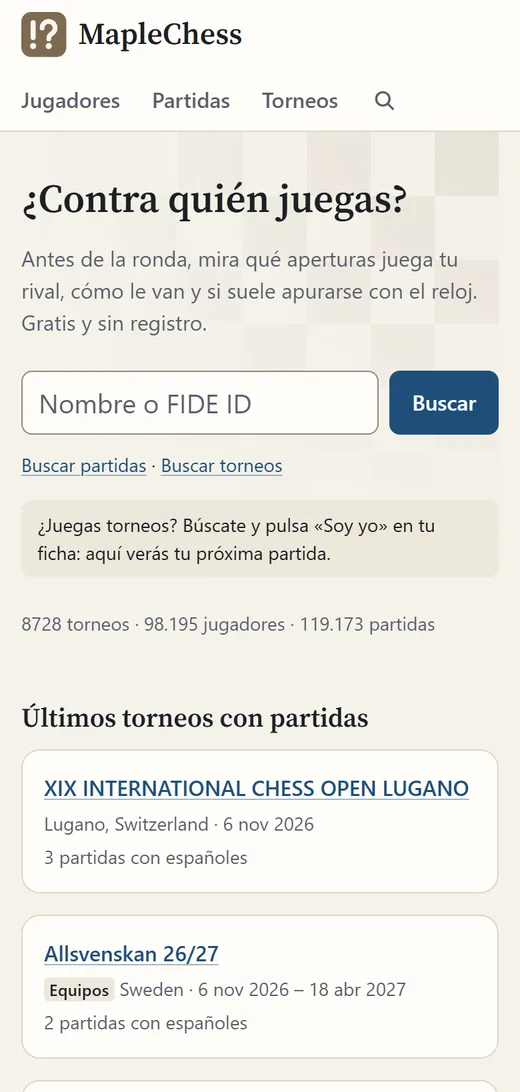
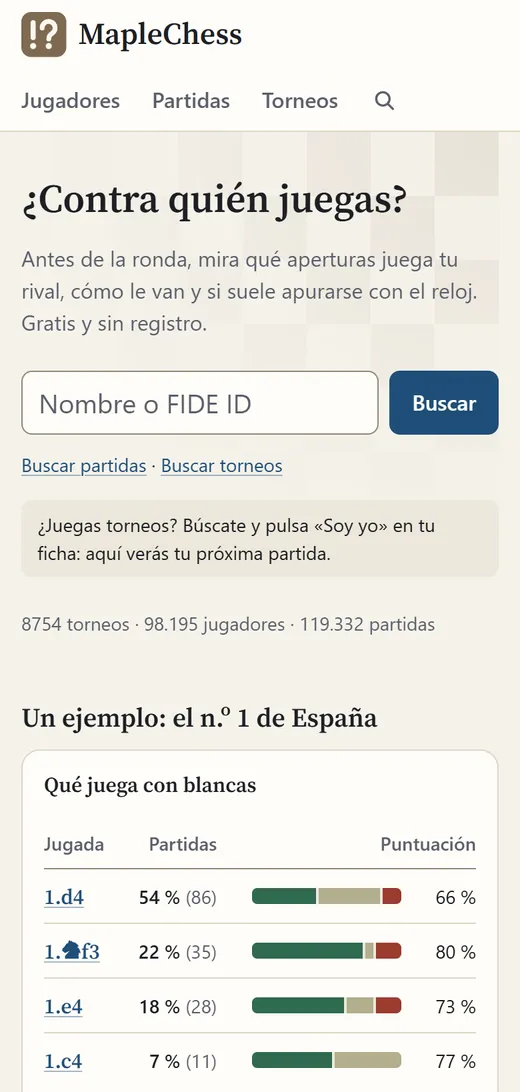
README: la captura de la portada, con el ejemplo del dossier
Desde #120, la parte de arriba de la portada enseña el ejemplo con el
dossier del n.º 1 del ranking, y la captura del móvil del README seguía
enseñando los últimos torneos con partidas.

Rehecha con la receta de las otras del móvil (390×844 a densidad 2,
recortada a 819 px CSS y en WebP de 520×1092, con quality 80 y method 6),
en claro y oscuro. El corte cae en una franja sin texto (de 816 a 863 px),
así que las demás no cambian. Cambian también su texto alternativo y la
nota de docs/decisiones.md: la fecha, quién sale en la portada y el
peso de las ocho, 436 KB.

diff --git a/docs/decisiones.md b/docs/decisiones.md
@@ -804,7 +804,7 @@ La historia, las medidas, los casos concretos y el detalle de cada página que s
 
 #### Capturas del README
 
-- **Capturas del README** (`docs/capturas/`, 25-oct-2026; rehechas el 7-nov-2026, con las piezas nuevas): de producción, en WebP y en claro y oscuro, que el README elige con `<picture>` y `prefers-color-scheme`. Sólo enseñan GM de élite (la partida 53051, Anton Guijarro contra Gukesh, y el dossier de Anton, 2285525) y nombres de torneos: nunca a otros jugadores ni a posibles menores. El visor, a 1280×800 con el motor encendido; las del móvil, a 390×844. Las ocho pesan unos 440 KB.
+- **Capturas del README** (`docs/capturas/`, 25-oct-2026; rehechas el 7-nov-2026, con las piezas nuevas, y la de la portada el 11-nov-2026, con el ejemplo del dossier): de producción, en WebP, en claro y en oscuro, que el README elige con `<picture>` y `prefers-color-scheme`. Sólo enseñan GM de élite (la partida 53051, Anton Guijarro contra Gukesh, y el dossier de Anton, 2285525, que el 11-nov era también el ejemplo de la portada, sin su nombre: se recalcula cada noche y puede ser otro de los diez primeros) y nombres de torneos: nunca a otros jugadores ni a posibles menores. El visor, a 1280×800 con el motor encendido; las del móvil, a 390×844, recortadas a 819 px de alto y guardadas a 520 px de ancho; en la de la portada, el corte cae en una franja sin texto (de 816 a 863 px). Las ocho pesan 436 KB.
 
 ### `main` es lo desplegado y está protegido
 

diff --git a/README.md b/README.md
@@ -46,7 +46,7 @@ Saber contra quién te toca en la próxima ronda, ver qué aperturas juega y dó
 <p align="center">
   <picture>
     <source media="(prefers-color-scheme: dark)" srcset="docs/capturas/portada-oscuro.webp">
-    <img src="docs/capturas/portada-claro.webp" width="260" alt="La portada en el móvil: «¿Contra quién juegas?», el buscador y los últimos torneos con partidas">
+    <img src="docs/capturas/portada-claro.webp" width="260" alt="La portada en el móvil: «¿Contra quién juegas?», el buscador y el ejemplo del dossier del n.º 1 de España, con su primera jugada con blancas">
   </picture>
   <picture>
     <source media="(prefers-color-scheme: dark)" srcset="docs/capturas/dossier-oscuro.webp">
